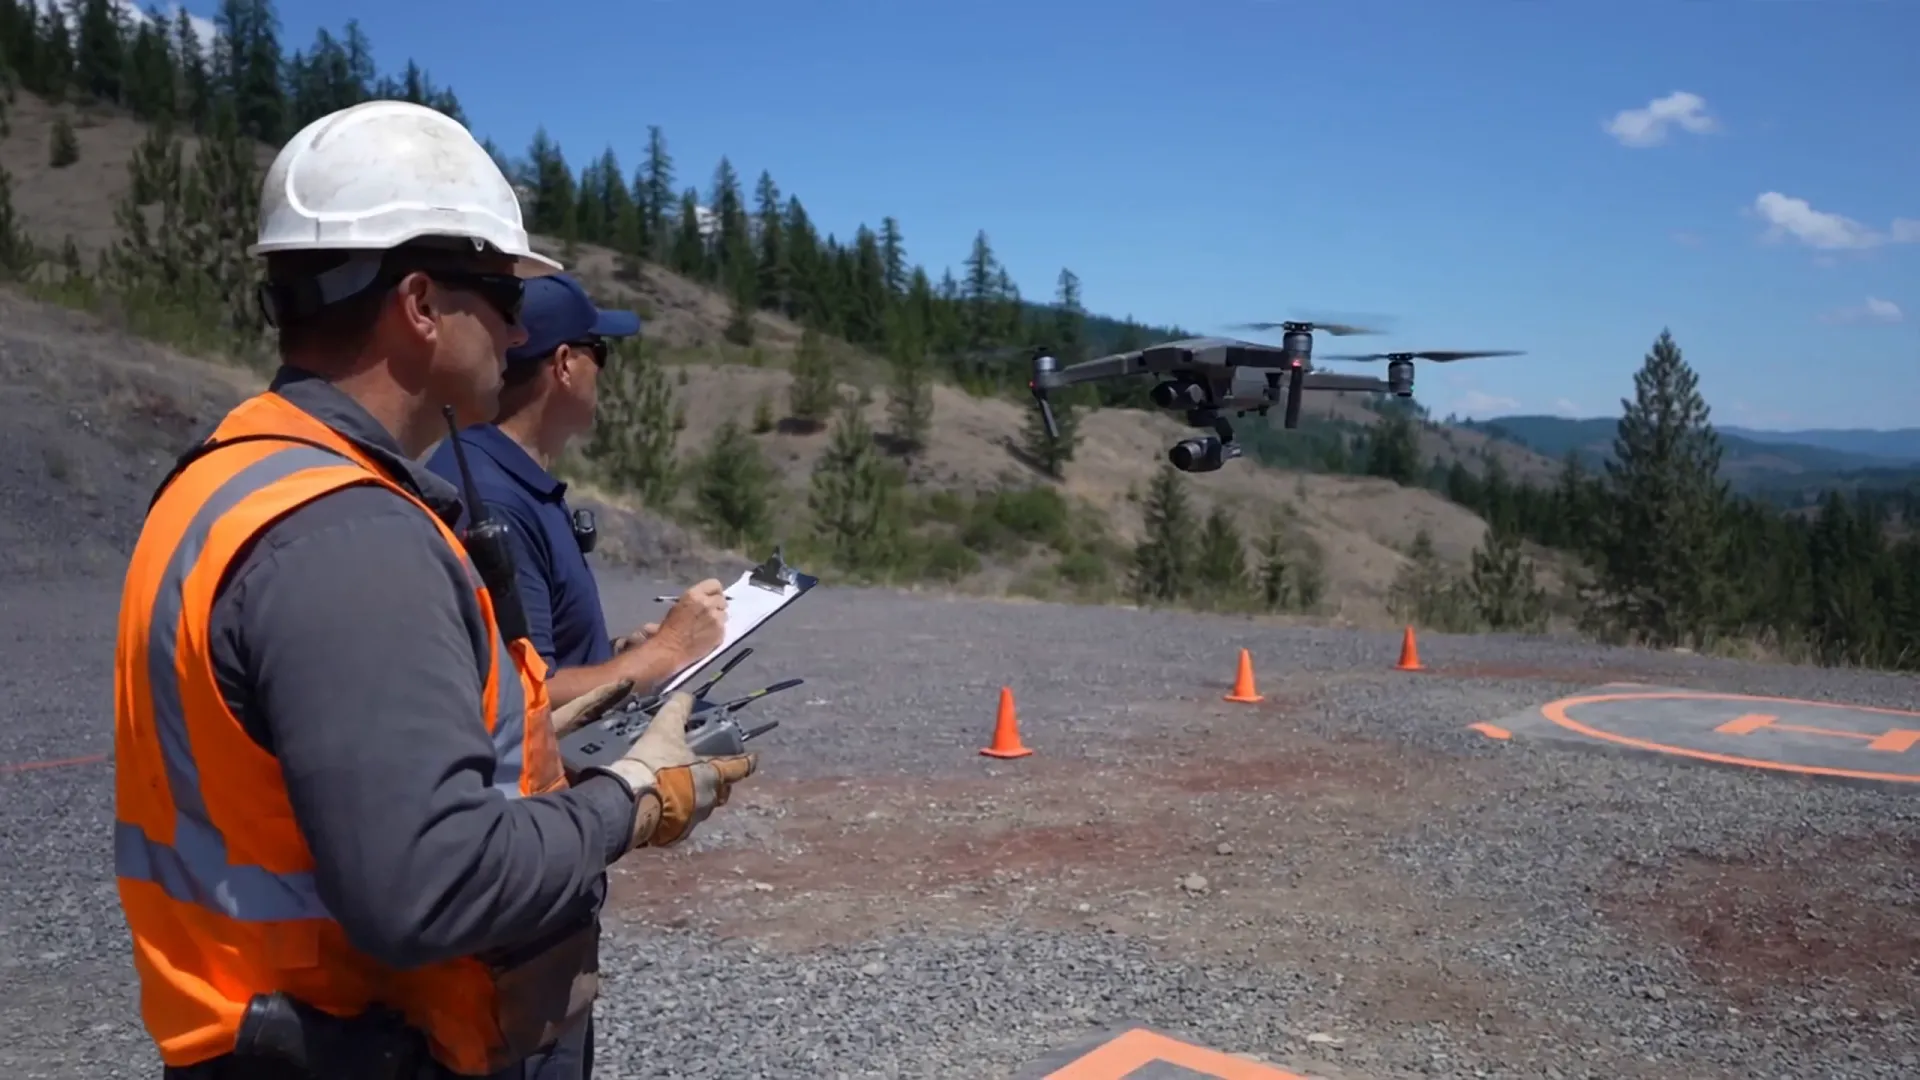
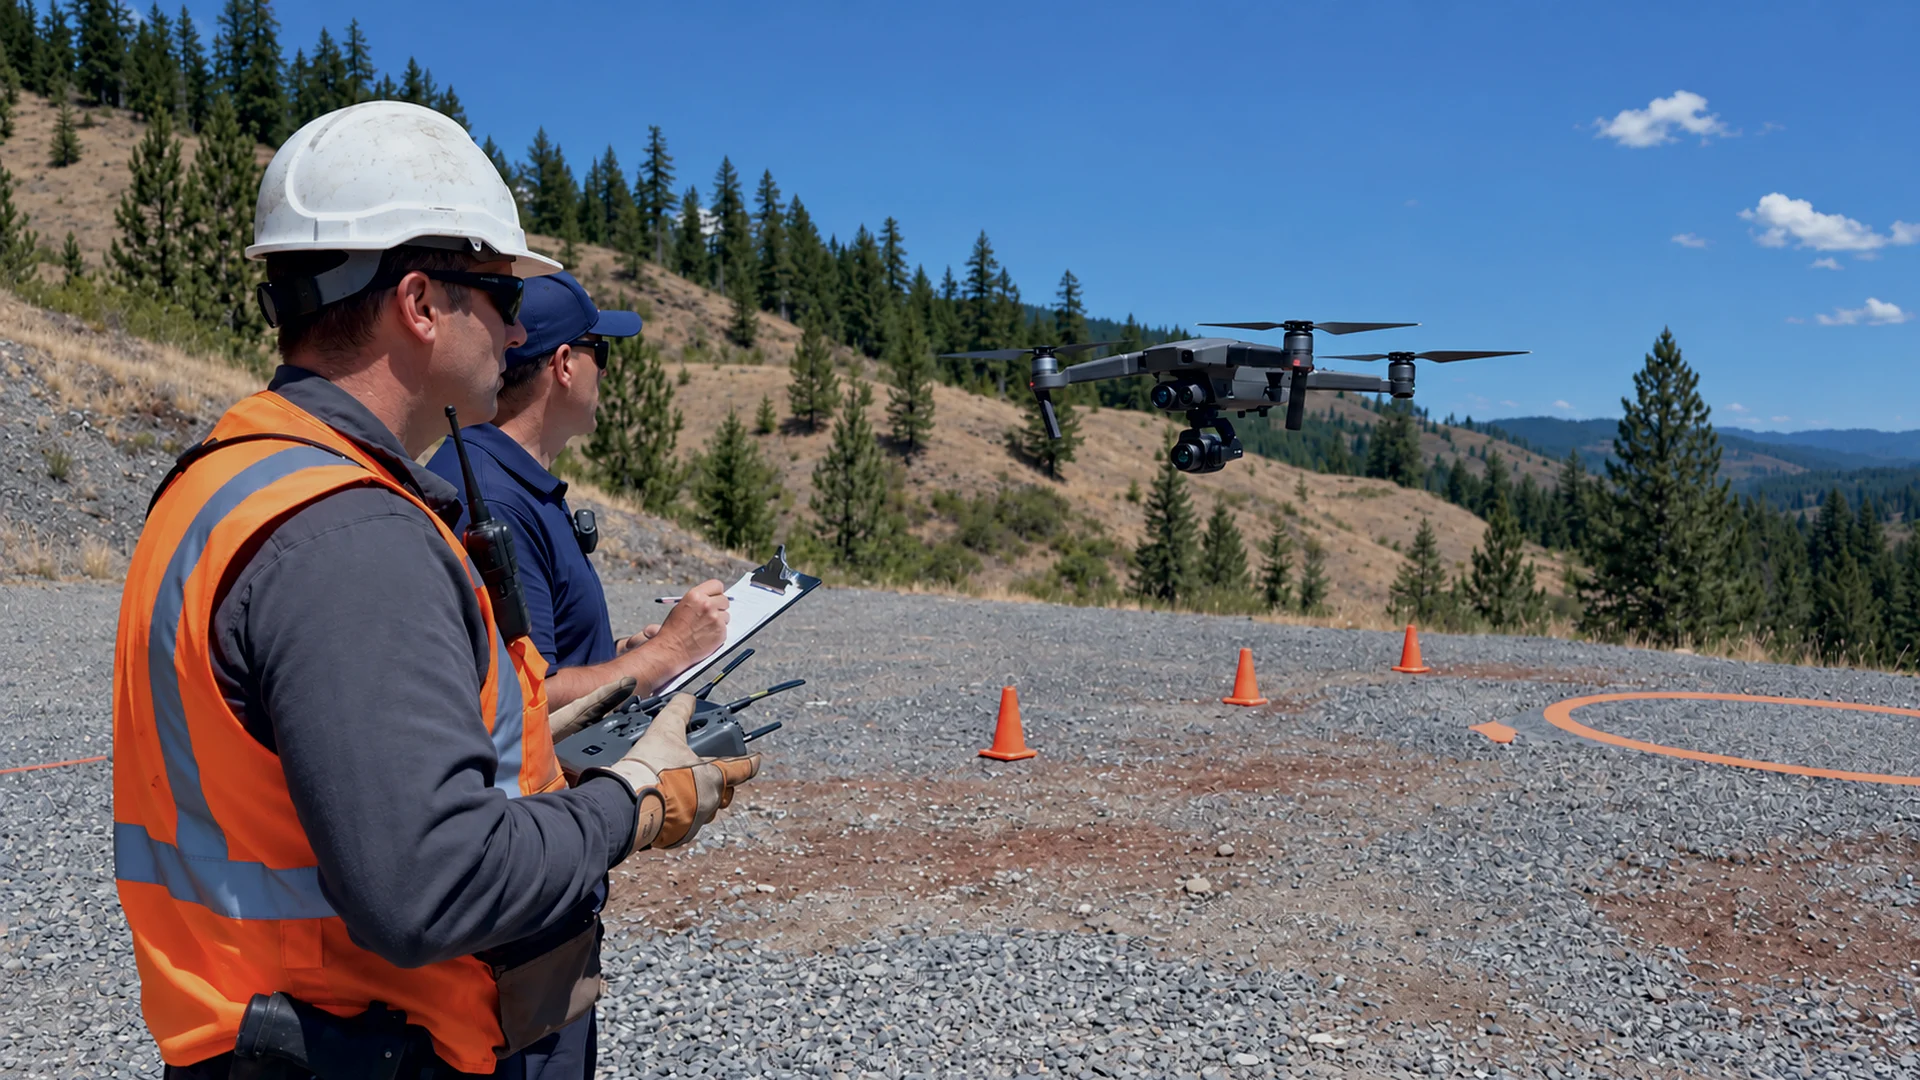
added

diff --git a/src/v3/styles/mobile.css b/src/v3/styles/mobile.css
@@ -61,8 +61,9 @@ html[data-mp][data-hdr="over"] .hdr:not([data-open]) .hdr__menu { border-color: 
 /* ---------------------------------------------------------------- 01: the hero */
 .mh { position: relative; height: max(560px, 92svh); overflow: hidden; background: #0e1012; color: #fff; }
 .mh__v, .mh__still { position: absolute; inset: 0; width: 100%; height: 100%; display: block; object-fit: cover; object-position: 50% 30%; }
-.mh__still { pointer-events: none; transition: opacity 900ms var(--ease-out); }
-.mh__still[data-off] { opacity: 0; }
+/* the stills dissolve once their footage plays */
+.mh__still, .mclip__still { pointer-events: none; transition: opacity 900ms var(--ease-out); }
+.mh__still[data-off], .mclip__still[data-off] { opacity: 0; }
 .mh::after {
   content: "";
   position: absolute;
@@ -106,12 +107,14 @@ html[data-mp][data-hdr="over"] .hdr:not([data-open]) .hdr__menu { border-color: 
   border-top: 1px solid rgba(255, 255, 255, 0.06);
 }
 .mclip, .mimg { display: block; width: 100%; height: 100%; object-fit: cover; }
+.mclipw { position: relative; display: block; width: 100%; height: 100%; }
+.mclip__still { position: absolute; inset: 0; width: 100%; height: 100%; display: block; object-fit: cover; }
 .mc__bg { position: absolute; inset: 0; z-index: -2; }
 
 /* light: the text on the left, the footage bleeding in from the right */
 .mc--light { background: linear-gradient(90deg, #f5f6f8 0, #e9ecef 100%); color: var(--m-ink); border-top: 0; }
 .mc--light .mc__media { position: absolute; top: 0; right: 0; bottom: 0; width: 56%; z-index: 0; }
-.mc--light .mc__media .mclip {
+.mc--light .mc__media .mclipw {
   -webkit-mask-image: linear-gradient(90deg, transparent 0, #000 38%);
   mask-image: linear-gradient(90deg, transparent 0, #000 38%);
 }
@@ -317,7 +320,7 @@ html[data-motion="on"] .msheet__box { animation: m-sheet 380ms var(--ease-out); 
   /* light: the footage takes the right 62%, the whole frame */
   .mc--light { min-height: clamp(560px, 36vw, 980px); }
   .mc--light .mc__media { width: 62%; }
-  .mc--light .mc__media .mclip {
+  .mc--light .mc__media .mclipw {
     -webkit-mask-image: linear-gradient(90deg, transparent 0, #000 28%);
     mask-image: linear-gradient(90deg, transparent 0, #000 28%);
   }

diff --git a/src/v3/sections/MobilePage.tsx b/src/v3/sections/MobilePage.tsx
@@ -37,12 +37,18 @@ function MI({ n, s = 22 }: { n: keyof typeof PATHS; s?: number }) {
   );
 }
 
-/** a looping clip: its first frame shows at once; it plays only while on screen (and never with motion off) */
+/**
+ * A looping clip under its still (10-30, the user: "do same for all sections initial images"): the still, a sharp
+ * generated picture of the same shot, shows at once and dissolves once the clip is playing; the clip plays only while
+ * on screen, and never with motion off (then the still is all there is).
+ */
 function Clip({ src, poster, className = "", start = 0.4 }: { src: string; poster: string; className?: string; start?: number }) {
   const ref = useRef<HTMLVideoElement>(null);
   const [on] = useState(live);
+  const [rolling, setRolling] = useState(false);
   useEffect(() => {
     const v = ref.current;
+    setRolling(false);
     if (!v || !on || typeof IntersectionObserver === "undefined") return;
     v.muted = true;
     v.defaultMuted = true;
@@ -52,19 +58,25 @@ function Clip({ src, poster, className = "", start = 0.4 }: { src: string; poste
     return () => io.disconnect();
   }, [on, src]);
   return (
-    <video
-      ref={ref}
-      className={`mclip ${className}`}
-      src={on ? `${src}#t=${start}` : undefined}
-      poster={poster}
-      muted
-      playsInline
-      loop
-      preload="none"
-      disablePictureInPicture
-      aria-hidden="true"
-      tabIndex={-1}
-    />
+    <div className={`mclipw ${className}`}>
+      <video
+        ref={ref}
+        className="mclip"
+        src={on ? `${src}#t=${start}` : undefined}
+        muted
+        playsInline
+        loop
+        preload="none"
+        disablePictureInPicture
+        aria-hidden="true"
+        tabIndex={-1}
+        onTimeUpdate={(e) => {
+          const v = e.currentTarget;
+          if (!rolling && !v.paused && v.currentTime > start + 0.25) setRolling(true);
+        }}
+      />
+      <img className="mclip__still" src={poster} alt="" aria-hidden="true" loading="lazy" decoding="async" data-off={rolling ? "" : undefined} />
+    </div>
   );
 }
 /** a card's loop: phones 720p, desktop 1080p ("-hd"), 2K screens 1440p ("-2k") for the full-width ones */

diff --git a/tools/stills.py b/tools/stills.py
@@ -1,11 +1,12 @@
-"""Web stills from the generated images (media/incoming/gen). Run with python -I.
+"""Web stills from the generated images (media/incoming/gen). Run with python -I; a missing image is skipped.
 
 2026-10-30: the user on the hero's still ("should be something sharp 2k") and "u can use codex to generate the
 necessary images". Codex's built-in image tool (no size control here) made both at 1672x941 from the film's frames as
 composition references; at 2560 wide they hold 2.6x (hero) and 9x (careers) the detail of the film frames, which are
 720p underneath. Each is pulled most of the way to its film frame's colour (a Lab mean / spread match), so the hero's
 still dissolves into the loop without a colour jump, and the careers still sits with the footage.
-tools/film-cut.py leaves these files alone while the generated images exist.
+Same day, "do same for all sections initial images": the six card loops, the film and the phone hero too, each from
+its own poster frame. tools/film-cut.py leaves a poster alone while its generated image exists.
 """
 import os
 import cv2
@@ -14,11 +15,21 @@ import numpy as np
 ROOT = r"C:\Rhidoys_workspace\seq_wildfire"
 GEN = os.path.join(ROOT, "media", "incoming", "gen")
 K2 = os.path.join(ROOT, "media", "incoming", "2k", "sequoia-2k-scene-{:02d}.mp4")
+PHONE = os.path.join(ROOT, "media", "incoming", "sequoia-phone-heroes-stitched.mp4")
+# the card loops' poster frames (tools/film-cut.py CARD_CLIPS / SLOW) and whether the card also has a 1440p loop
+CARDS = {
+    "lenses": (11, 0.9, False),
+    "heat": (14, 4.2, True),
+    "team": (7, 0.8, True),
+    "map": (17, 3.9, False),
+    "site": (22, 7.2, True),
+    "truck": (3, 1.4, True),
+}
 OUT = os.path.join(ROOT, "public", "media", "video")
 
 
 def frame(n, t):
-    cap = cv2.VideoCapture(K2.format(n))
+    cap = cv2.VideoCapture(K2.format(n) if isinstance(n, int) else n)
     cap.set(cv2.CAP_PROP_POS_MSEC, t * 1000)
     ok, img = cap.read()
     cap.release()
@@ -43,12 +54,25 @@ def wide(img):
     return img[y:y + th]
 
 
+def tall(img):
+    """crop to 9:16 about the centre"""
+    h, w = img.shape[:2]
+    tw = round(h * 9 / 16)
+    x = max(0, (w - tw) // 2)
+    return img[:, x:x + tw]
+
+
+def gen(name):
+    p = os.path.join(GEN, name + ".png")
+    return cv2.imread(p) if os.path.exists(p) else None
+
+
 def save(img, dst, width, crop=None, sharpen=0.0, q=90):
     if crop:
         h, w = img.shape[:2]
         img = img[int(crop[1] * h):int(crop[3] * h), int(crop[0] * w):int(crop[2] * w)]
     h, w = img.shape[:2]
-    size = (width, width * 9 // 16) if crop is None else (width, round(h * width / w))
+    size = (width, round(h * width / w)) if crop else (width, width * 9 // 16) if w > h else (width, width * 16 // 9)
     img = cv2.resize(img, size, interpolation=cv2.INTER_LANCZOS4 if width > w else cv2.INTER_AREA)
     if sharpen:
         img = cv2.addWeighted(img, 1 + sharpen, cv2.GaussianBlur(img, (0, 0), 1.2), -sharpen, 0)
@@ -58,10 +82,31 @@ def save(img, dst, width, crop=None, sharpen=0.0, q=90):
 
 if __name__ == "__main__":
     # the desktop hero: over the loop until it plays (scene 01 at 7.52 s is the loop's own sharpest frame)
-    hero = wide(match(cv2.imread(os.path.join(GEN, "hero-still.png")), frame(1, 7.52), 0.7))
-    save(hero, os.path.join(OUT, "d-hero-2k.webp"), 2560, sharpen=0.25)
-    save(hero, os.path.join(OUT, "d-hero.webp"), 1920, sharpen=0.15)
+    img = gen("hero-still")
+    if img is not None:
+        hero = wide(match(img, frame(1, 7.52), 0.7))
+        save(hero, os.path.join(OUT, "d-hero-2k.webp"), 2560, sharpen=0.25)
+        save(hero, os.path.join(OUT, "d-hero.webp"), 1920, sharpen=0.15)
     # careers: the guard with binoculars (scene 04 at 6.0 s); desktop uncropped, phones the middle 60%
-    car = wide(match(cv2.imread(os.path.join(GEN, "careers-still.png")), frame(4, 6.0), 0.6))
-    save(car, os.path.join(OUT, "st-ground-hd.webp"), 1672)
-    save(car, os.path.join(OUT, "st-ground.webp"), 720, crop=(0.12, 0, 0.72, 1))
+    img = gen("careers-still")
+    if img is not None:
+        car = wide(match(img, frame(4, 6.0), 0.6))
+        save(car, os.path.join(OUT, "st-ground-hd.webp"), 1672)
+        save(car, os.path.join(OUT, "st-ground.webp"), 720, crop=(0.12, 0, 0.72, 1))
+    # the card loops: phones 1280, desktop 1920, 2K screens 2560 for the full-width ones
+    for cid, (n, t, k2) in CARDS.items():
+        img = gen(f"card-{cid}")
+        if img is None:
+            continue
+        c = wide(match(img, frame(n, t), 0.7))
+        save(c, os.path.join(OUT, f"c-{cid}.webp"), 1280, q=86)
+        save(c, os.path.join(OUT, f"c-{cid}-hd.webp"), 1920, sharpen=0.15, q=86)
+        if k2:
+            save(c, os.path.join(OUT, f"c-{cid}-2k.webp"), 2560, sharpen=0.25, q=86)
+    # the film's poster (full screen in the player) and the phone hero (9:16, the patrol)
+    img = gen("film-poster")
+    if img is not None:
+        save(wide(match(img, frame(4, 7.6), 0.7)), os.path.join(OUT, "film-poster.webp"), 1920, sharpen=0.15)
+    img = gen("phone-hero")
+    if img is not None:
+        save(tall(match(img, frame(PHONE, 1.49), 0.7)), os.path.join(OUT, "s-hero.webp"), 720, q=88)

diff --git a/tools/film-cut.py b/tools/film-cut.py
@@ -23,8 +23,12 @@ K2 = os.path.join(INC, "2k")
 PHONE = os.path.join(INC, "sequoia-phone-heroes-stitched.mp4")
 OUT = os.path.join(ROOT, "public", "media", "video")
 S0 = 2 / 48  # each 2K clip's first frame can be a stray frame or a hard white flash
-# generated stills (10-30): while these exist, tools/stills.py owns the hero and careers stills
+# generated stills (10-30): while media/incoming/gen/<name>.png exists, tools/stills.py owns that poster
 GEN = os.path.join(INC, "gen")
+
+
+def generated(name):
+    return os.path.exists(os.path.join(GEN, name + ".png"))
 
 
 def scene(n):
@@ -108,7 +112,8 @@ def film():
     run([*ins, "-filter_complex", graph, "-map", "[vc]", "-map", "[ao]",
          "-c:v", "libx264", "-preset", "medium", "-crf", "24", "-maxrate", "1800k", "-bufsize", "3600k", "-profile:v", "high", "-pix_fmt", "yuv420p",
          "-c:a", "aac", "-b:a", "96k", "-ac", "1", "-movflags", "+faststart", dst])
-    poster(scene(4), 7.6, os.path.join(OUT, "film-poster.webp"), 1280)
+    if not generated("film-poster"):
+        poster(scene(4), 7.6, os.path.join(OUT, "film-poster.webp"), 1280)
     return dst, round(t, 2), starts
 
 
@@ -140,7 +145,7 @@ def desk_hero(width=1920, sfx=""):
 
 
 def hero_still(width, sfx=""):
-    if os.path.exists(os.path.join(GEN, "hero-still.png")):
+    if generated("hero-still"):
         return
     poster(DESK[0][0], 7.52, os.path.join(OUT, f"d-hero{sfx}.webp"), width, q=90, sharpen=0.35)
 
@@ -157,7 +162,8 @@ def hero():
     run(["-i", PHONE, "-i", launch, "-filter_complex", graph, "-map", "[v]", "-an",
          "-c:v", "libx264", "-preset", "slow", "-crf", "27", "-maxrate", "1600k", "-bufsize", "3200k", "-profile:v", "high",
          "-pix_fmt", "yuv420p", "-movflags", "+faststart", dst])
-    poster(PHONE, 1.49, os.path.join(OUT, "s-hero.webp"), 720)
+    if not generated("phone-hero"):
+        poster(PHONE, 1.49, os.path.join(OUT, "s-hero.webp"), 720)
     return [dst]
 
 
@@ -196,7 +202,8 @@ def cards(width=1280, sfx="", ids=None):
         vf = f"trim=start={a}:end={b},setpts=PTS-STARTPTS,{base},fade=t=in:st=0:d=0.35:color={col},fade=t=out:st={d - 0.35:.3f}:d=0.35:color={col}"
         dst = os.path.join(OUT, f"c-{cid}{sfx}.mp4")
         run(["-i", scene(n), "-vf", vf, *enc, dst])
-        poster(scene(n), a + 0.4, os.path.join(OUT, f"c-{cid}{sfx}.webp"), width)
+        if not generated(f"card-{cid}"):
+            poster(scene(n), a + 0.4, os.path.join(OUT, f"c-{cid}{sfx}.webp"), width)
         out.append(dst)
     for cid, n, a, b, boom in SLOW:
         if ids and cid not in ids:
@@ -209,10 +216,11 @@ def cards(width=1280, sfx="", ids=None):
             graph = f"[0:v]{slow},fade=t=in:st=0:d=0.4:color=0x0E1012,fade=t=out:st={d - 0.4:.3f}:d=0.4:color=0x0E1012[v]"
         dst = os.path.join(OUT, f"c-{cid}{sfx}.mp4")
         run(["-i", scene(n), "-filter_complex", graph, "-map", "[v]", *enc, dst])
-        poster(scene(n), a if boom else a + 0.2, os.path.join(OUT, f"c-{cid}{sfx}.webp"), width)
+        if not generated(f"card-{cid}"):
+            poster(scene(n), a if boom else a + 0.2, os.path.join(OUT, f"c-{cid}{sfx}.webp"), width)
         out.append(dst)
     for sid, n, t, crop, w in {"": STILLS, "-hd": STILLS_HD}.get(sfx, []):
-        if os.path.exists(os.path.join(GEN, "careers-still.png")):
+        if generated("careers-still"):
             break
         dst = os.path.join(OUT, f"st-{sid}{sfx}.webp")
         poster(scene(n), t, dst, w, crop)

diff --git a/src/v3/README.md b/src/v3/README.md
@@ -98,3 +98,8 @@ The main page since 2026-10-21: served at `/` (`index.html` → `src/v3/main.tsx
     - The desktop footer (`DeskFoot`, the user: "make the footer look good") is the sign-off large with the proposal button, "Explore" and "Contact" columns, the wordmark across the full width, then the note. Phones keep their footer.
 - **A sharp hero still (2026-10-30).** The user, on a soft early frame of the loop: "the initial image when the video doesnt play ... should be something sharp 2k". The hero now holds a still (`.mh__still`) over the loop until it is playing past its 0.6 s fade-in, then dissolves (0.9 s). With motion off, Data Saver, blocked autoplay or a slow load, the still is all anyone sees. It is scene 01 at 7.52 s, the sharpest, stillest frame of the three shots by a frame scan (detail over motion). It is saved at WebP 90 with a light unsharp mask (`d-hero.webp` 1920, `d-hero-2k.webp` 2560; `tools/film-cut.py stills`). The source is still upscaled 720p, so a truly crisp still needs a native high-resolution image.
 - **Generated stills (2026-10-30).** The user: "u can use codex to generate the necessary images". Codex's built-in image tool made the hero still and the careers photo from the film's own frames as composition references (`media/incoming/gen/*.png`, 1672x941; it has no size control, and the 4K API route needs an OpenAI key that isn't set). At 2560 wide they hold 2.6x and 9x the detail of the film frames. `tools/stills.py` pulls each toward its film frame's colour so the hero's still dissolves into the loop without a jump, then writes `d-hero(-2k).webp` and `st-ground(-hd).webp`. `tools/film-cut.py` leaves those four files alone while the generated images exist. The careers photo is framed at 35% on desktop, so the guard stays in the narrower box.
+- **Every section's still (2026-10-30, the user: "do same for all sections initial images").** Codex generated the six card stills, the film poster and the phone hero from the current posters as composition references (1672x941, the phone hero 941x1672; no text, logos or badges). `tools/stills.py` colour-matches each to its poster frame and writes every size: `c-<id>.webp` 1280 (phones), `-hd` 1920, `-2k` 2560 for the full-width cards, `film-poster.webp` 1920 and `s-hero.webp` 720x1280.
+    - Each card clip now sits under its still (`Clip`: `.mclipw` > video + `.mclip__still`). The still shows at once, loads lazily and dissolves (0.9 s) once the clip is playing past its start.
+    - With motion off, the still is all there is. The video no longer carries a poster attribute.
+    - The light cards' fade mask moved to the wrapper, so it covers both.
+    - The lenses still frames the drone top centre (the clip has it upper left), so that one cross-dissolves like a cut.
